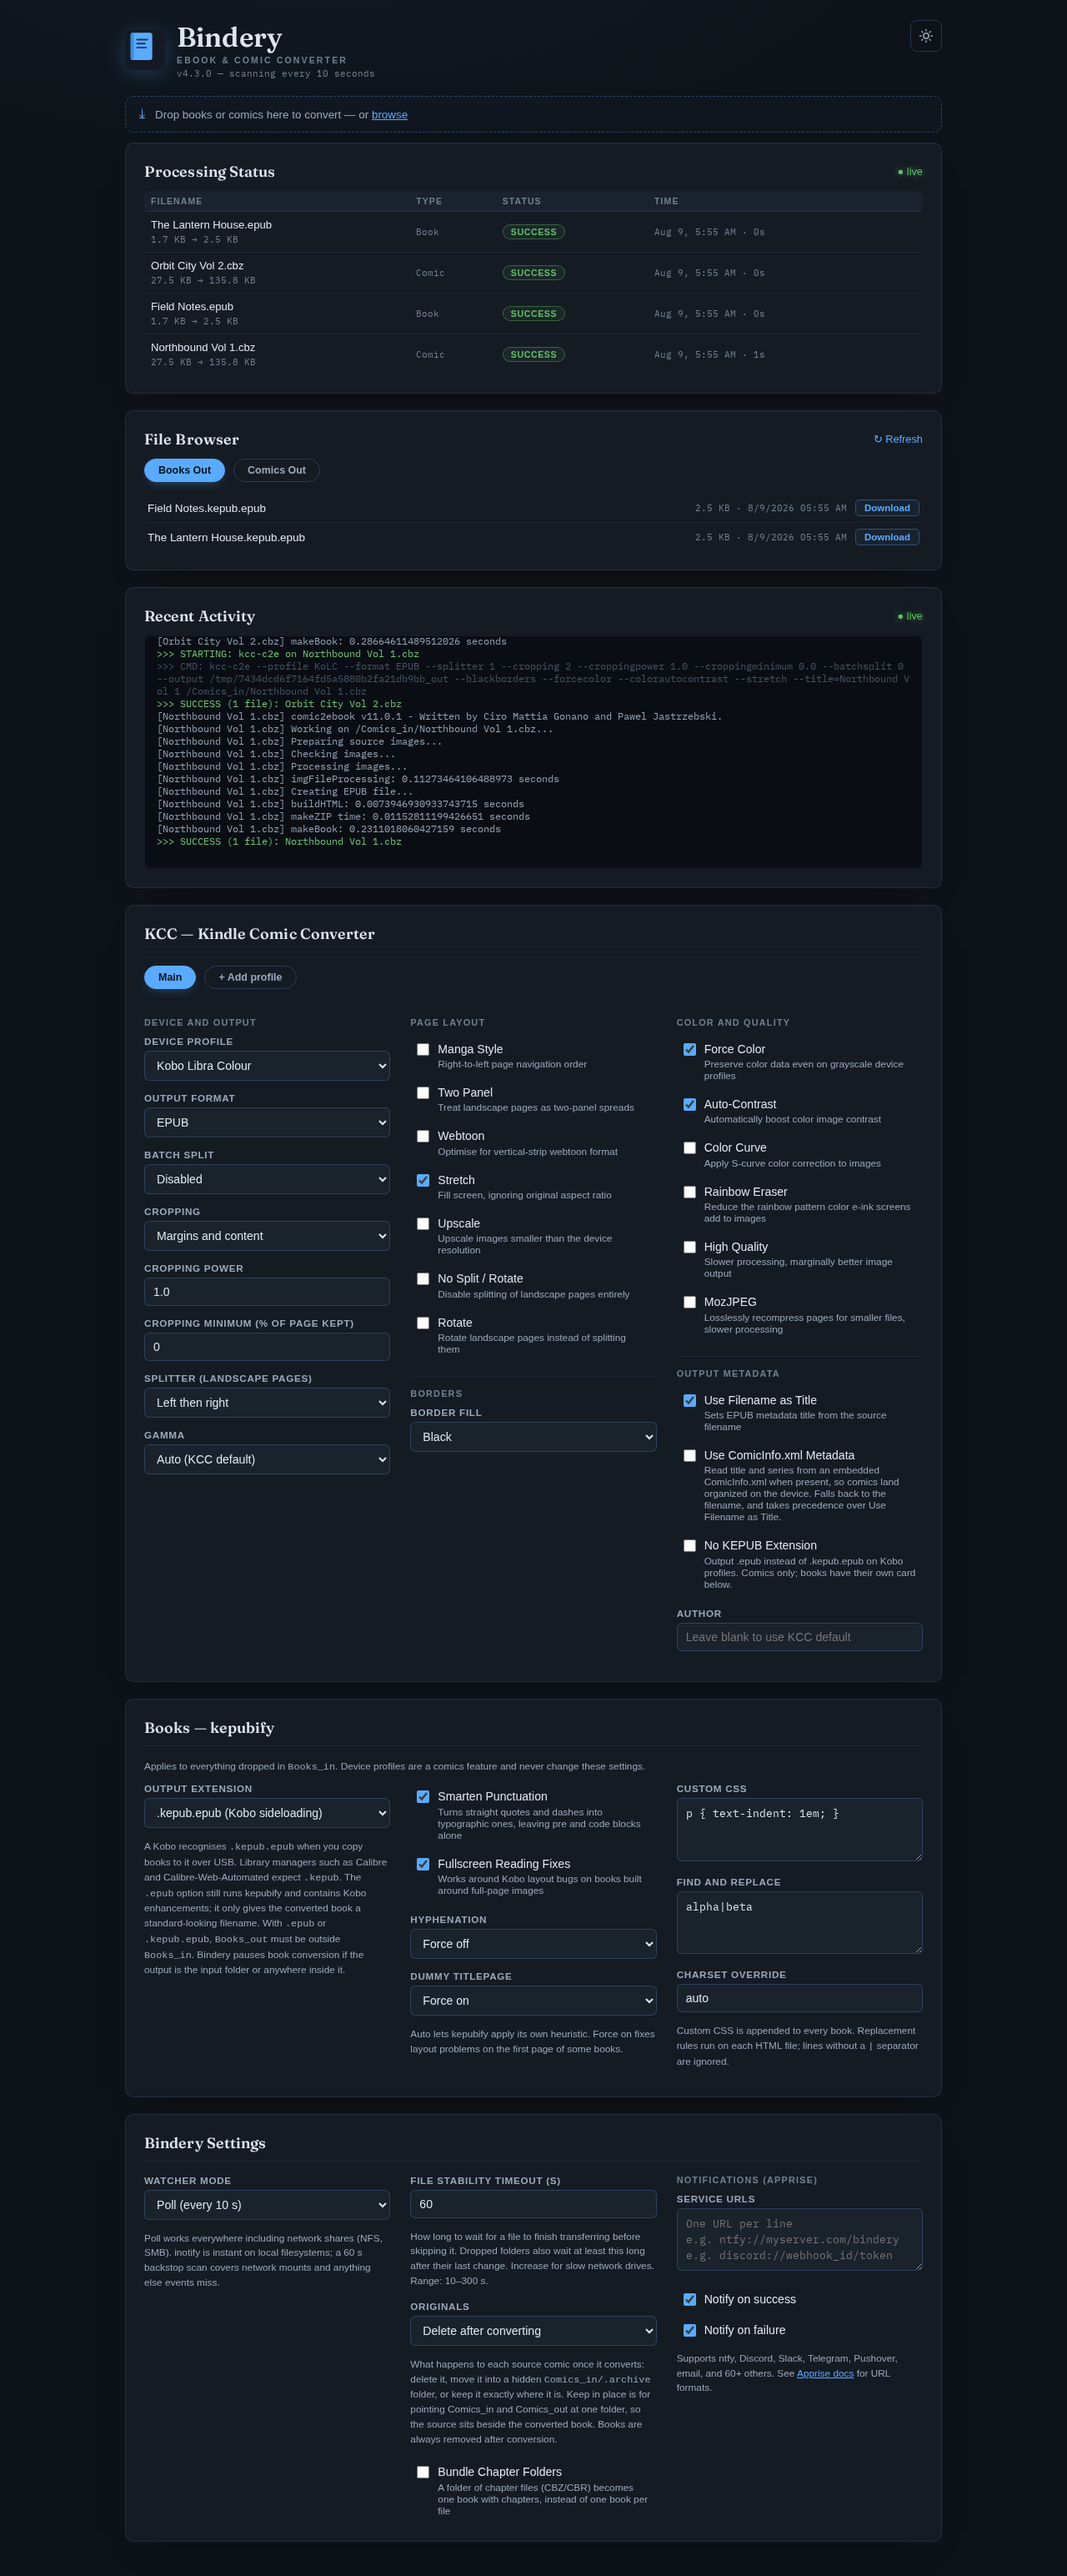
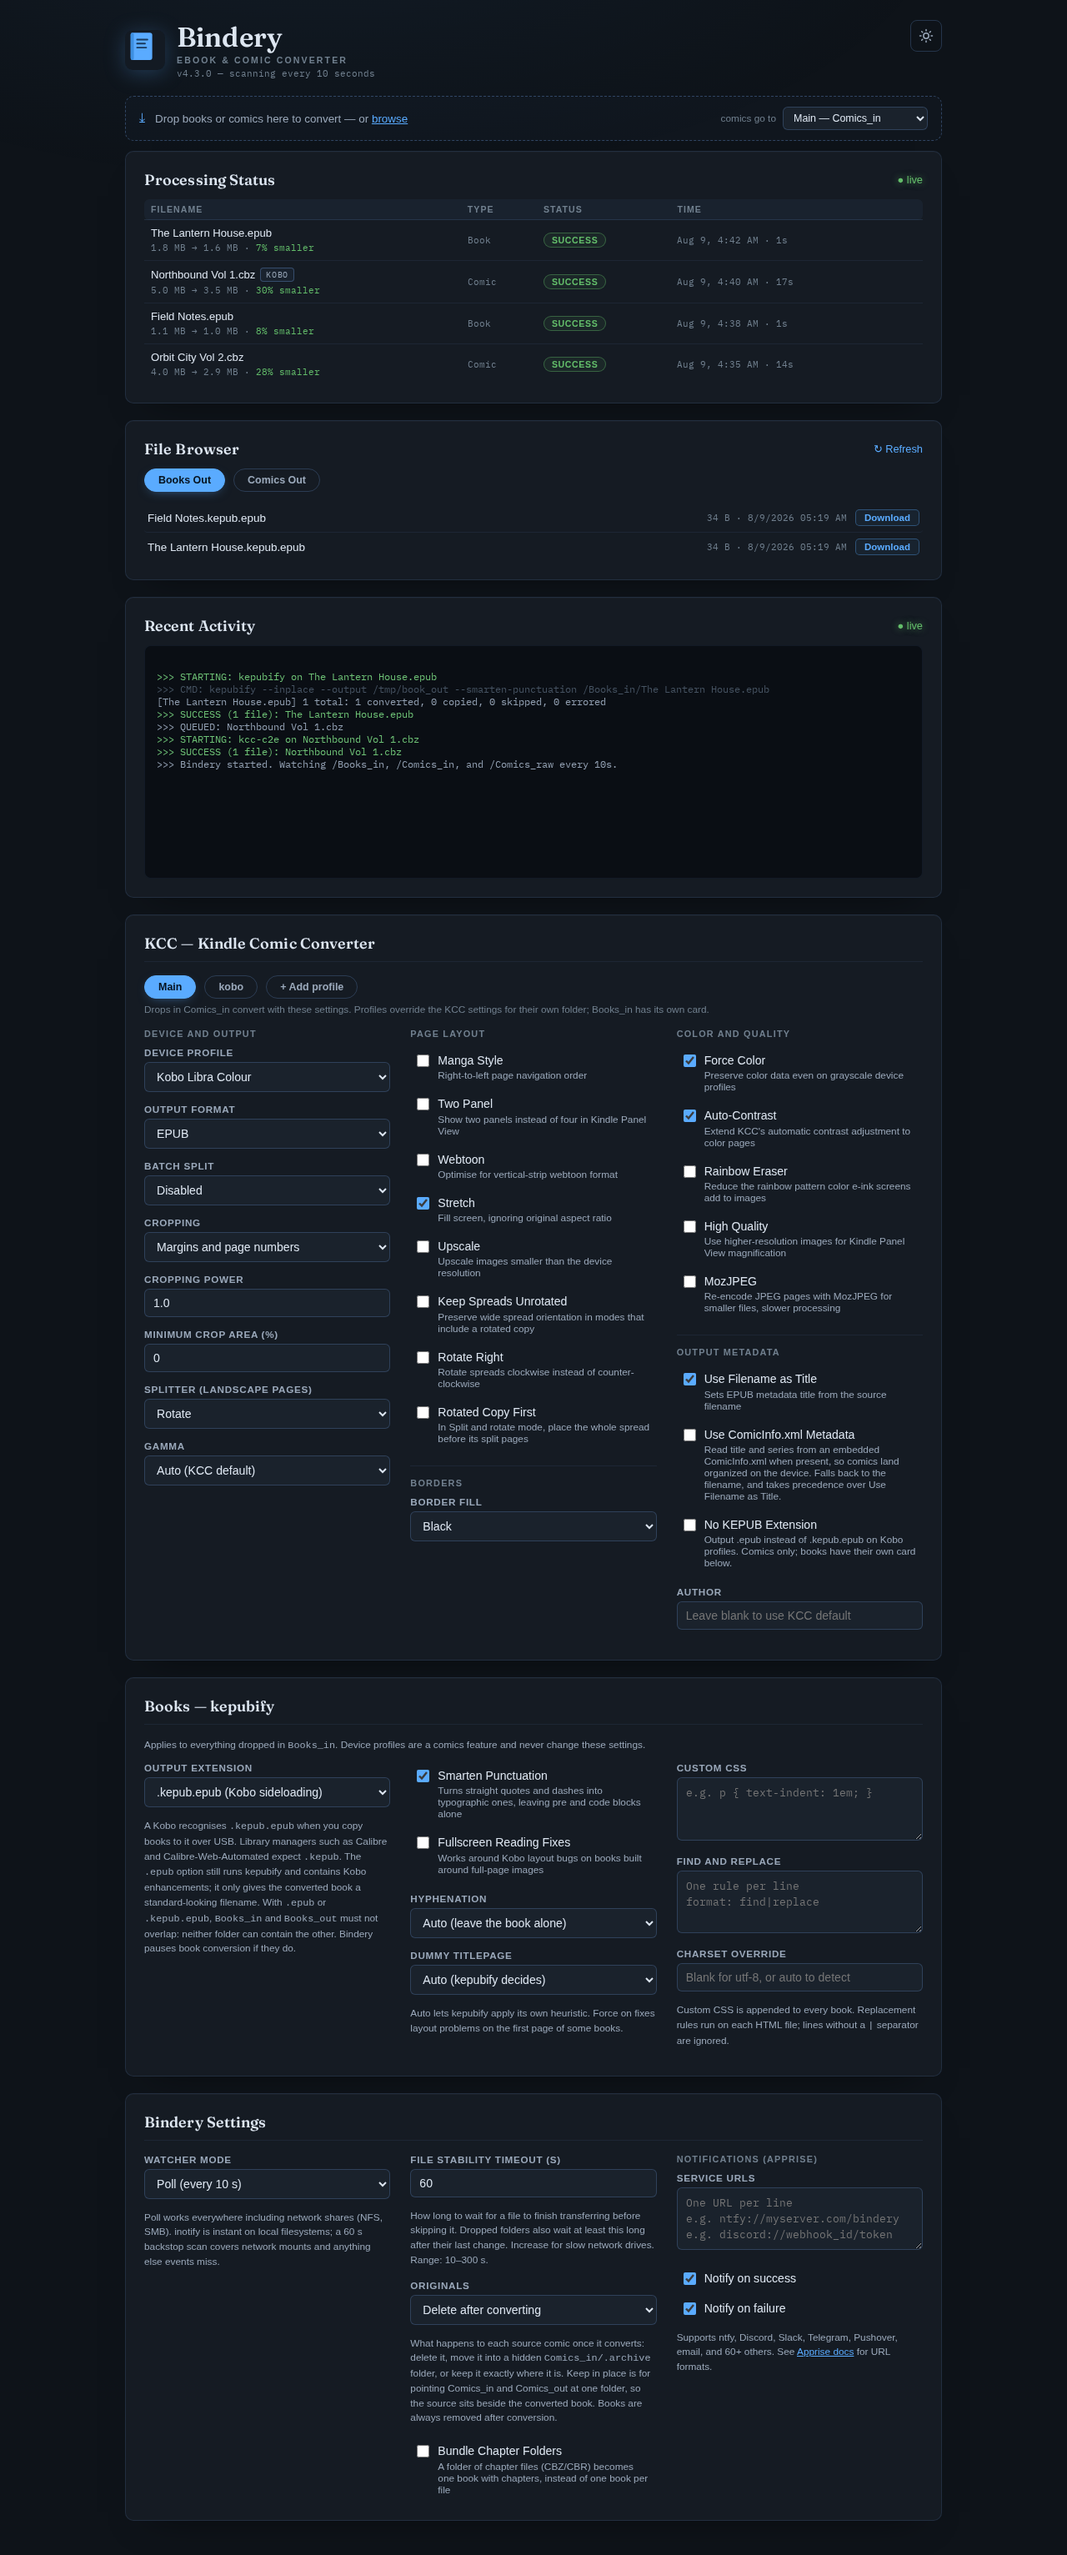
docs: update the 4.3.0 release

diff --git a/CHANGELOG.md b/CHANGELOG.md
@@ -10,11 +10,12 @@ Books now have their own conversion controls, with safer output naming and an up
 ### Fixed
 
 - **No KEPUB Extension no longer looks like it applies to books.** The setting is a KCC option and only ever affected comics, but nothing in the UI said so, so ticking it and dropping an EPUB into `Books_in` looked like a bug. It is now labelled as comics only, and books have their own extension setting.
-- **Overlapping book folders fail safely.** Converted `.epub` and `.kepub.epub` files can be picked up as fresh input when `Books_out` is the same folder as `Books_in` or sits anywhere inside it. Bindery now rejects either layout in the WebUI and pauses book processing if it finds one in a hand-edited config, leaving source files untouched instead of converting them repeatedly.
+- **Overlapping book folders fail safely.** Converted `.epub` and `.kepub.epub` files can be picked up as fresh input when either book folder contains the other. Bindery now rejects every overlapping layout in the WebUI and pauses book processing if it finds one in a hand-edited config, leaving source files untouched instead of converting them repeatedly.
+- **KCC settings match KCC 11.** The landscape splitter now shows KCC's real Split, Rotate, and Split and rotate modes; obsolete controls that made conversions fail are gone; and KCC's current spread options and Kindle Paperwhite and Scribe profiles are available.
 
 ### Changed
 
-- The Docker image now runs Python 3.13 and KCC 11.0.1, with current runtime libraries and GitHub Actions.
+- The Docker image now runs Python 3.13 and KCC 11.0.1, with current runtime libraries and GitHub Actions. Existing saved KCC settings are migrated to the supported equivalents automatically.
 
 Thanks to @tekgnosis-net for contributing the books settings work in #14.
 
@@ -72,11 +73,11 @@ A small release for anyone who keeps their comics in a library manager: leave th
 
 ## v3.6.0: MozJPEG
 
-KCC's MozJPEG option is now a toggle in the WebUI. Turn it on and the JPEG pages inside the output book get losslessly recompressed with the MozJPEG encoder: identical pixels, smaller files, at the cost of somewhat slower conversion.
+KCC's MozJPEG option is now a toggle in the WebUI. Turn it on and the JPEG pages inside the output book are re-encoded with MozJPEG for smaller files, at the cost of somewhat slower conversion.
 
 ### Added
 
-- MozJPEG toggle under Color and Quality. Passes KCC's `--mozjpeg`, which reoptimises every JPEG page losslessly. Off by default since it slows processing.
+- MozJPEG toggle under Color and Quality. Passes KCC's `--mozjpeg`, which re-encodes JPEG pages with the MozJPEG encoder. Off by default since it slows processing.
 
 Thanks to @Brandyii for the suggestion (#11).
 

diff --git a/README.md b/README.md
@@ -148,7 +148,7 @@ All KCC settings are configured in the WebUI, and each option includes a descrip
 - **Output Format**: `EPUB` (default) or `CBZ`. For Kindle devices, convert to EPUB and deliver with [Send to Kindle](https://www.amazon.com/sendtokindle). MOBI and KFX were removed in v3.4.0: MOBI needs Amazon's abandoned kindlegen binary and KFX a Calibre plugin, neither of which can ship in this image, so those conversions always failed.
 - **Manga Style**: enables right-to-left page order; enable for manga.
 - **Stretch**: fills the screen ignoring aspect ratio; on by default.
-- **Splitter**: controls how landscape pages are split. Use `Right then left` for manga.
+- **Splitter**: controls how landscape pages are handled: split them into two pages, rotate the whole spread, or include both. Manga Style controls right-to-left page order.
 
 When **Device Profile** is set to **Generic / Custom**, width and height fields appear for custom resolutions.
 
@@ -160,7 +160,7 @@ Books dropped into `Books_in` are converted by [kepubify](https://github.com/pga
 
 | Setting | Default | Notes |
 |---------|---------|-------|
-| Output Extension | `.kepub` | `.kepub` is what Calibre and Calibre-Web-Automated expect when ingesting. `.kepub.epub` is what a Kobo recognises when you copy books to it over USB. `.epub` still contains kepubify's Kobo enhancements; it only gives the converted book a conventional extension. With `.epub` or `.kepub.epub`, `Books_out` must be outside `Books_in`. Bindery pauses book conversion if the output is the input folder or anywhere inside it, preventing it from repeatedly converting its own output. |
+| Output Extension | `.kepub` | `.kepub` is what Calibre and Calibre-Web-Automated expect when ingesting. `.kepub.epub` is what a Kobo recognises when you copy books to it over USB. `.epub` still contains kepubify's Kobo enhancements; it only gives the converted book a conventional extension. With `.epub` or `.kepub.epub`, `Books_in` and `Books_out` must not overlap: neither folder can contain the other. Bindery pauses book conversion if they do, preventing it from repeatedly converting its own output. |
 | Smarten Punctuation | off | Converts straight quotes and dashes to typographic ones, leaving `pre` and `code` blocks alone. |
 | Hyphenation | `Auto` | Force hyphenation on or off instead of leaving the book as it is. |
 | Dummy Titlepage | `Auto` | Auto uses kepubify's heuristic. Force on fixes layout problems on the first page of some books. |
